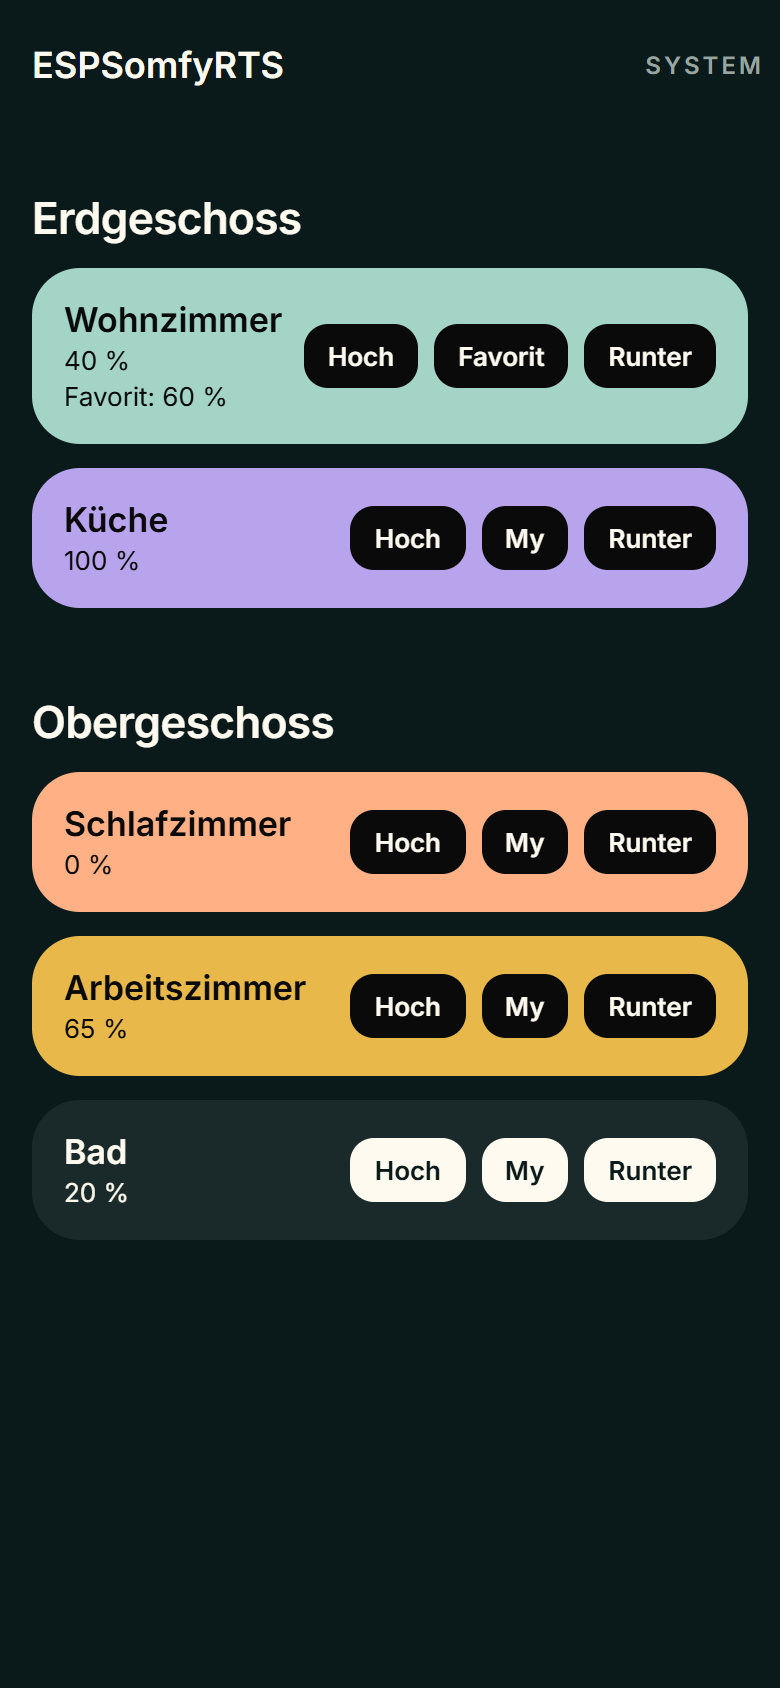
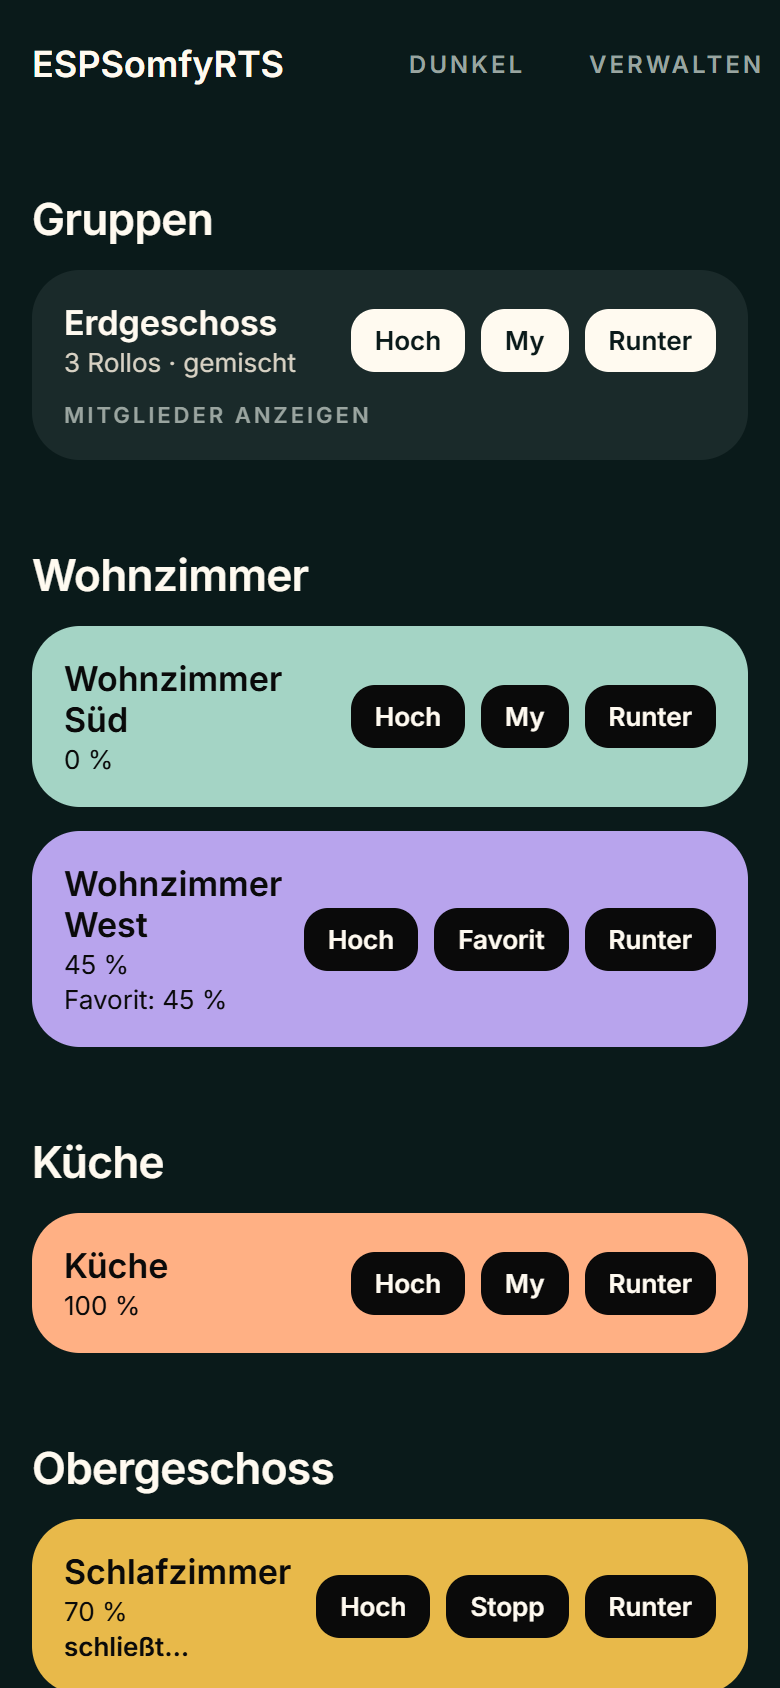
Release v3.0.0 vorbereiten
Version auf 3.0.0, Android versionCode 3, iOS buildNumber 3.

README auf den Stand von v3: Funktionsliste um Tilt, Favoritenposition,
Gruppensteuerung, die gesamte Verwaltung, die Sortierung und die Diagnose
ergaenzt; die Portuebersicht sagt jetzt, dass Port 80 sehr wohl genutzt wird -
die Verwaltungsrouten gibt es auf 8081 nicht. Screenshots neu erzeugt (jetzt mit
Gruppen im Dashboard) und um Verwalten, Reihenfolge und Diagnose erweitert.

docs/API-CLIENT-NOTES.en.md holt die deutschen Notizen ein: Routenverteilung auf
zwei Server, Fehlerantworten mit 2xx-Status, setMyPosition gegen setPositions,
der ereignisgetriebene Takt der Telemetrie, backup/restore und der nicht
erzwungene Authentifizierungsschutz.

webUiUrl() liest den Host aus dem Store statt aus getApi(). Die Funktion laeuft
beim Rendern des Diagnose-Screens, und getApi() wirft, solange keine Verbindung
stand.

Refs #55

diff --git a/src/store/diagnostics.ts b/src/store/diagnostics.ts
@@ -2,8 +2,10 @@ import { File, Paths } from 'expo-file-system';
 import * as Linking from 'expo-linking';
 import * as Sharing from 'expo-sharing';
 
-import { getApi } from '@/api/index';
+import { CONFIG_PORT, getApi } from '@/api/index';
 import { backupFilename } from '@/models/index';
+
+import { useAppStore } from './appStore';
 
 // Aktionen des Diagnose-Screens. Sie fassen den Store nicht an: Ein Backup ändert
 // nichts am Gerätezustand, und was ein Neustart bewirkt, meldet der Socket von
@@ -43,11 +45,19 @@ export async function rebootDevice(): Promise<void> {
   await getApi().endpoints.reboot();
 }
 
-/** Adresse des Web-UI (Port 80) — dieselbe Basis, über die die Verwaltung läuft. */
+/**
+ * Adresse des Web-UI (Port 80) — dieselbe Basis, über die die Verwaltung läuft.
+ * Bewusst aus dem Store statt aus `getApi()`: Die Funktion läuft beim Rendern, und
+ * `getApi()` wirft, solange noch keine Verbindung aufgebaut wurde.
+ */
 export function webUiUrl(): string {
-  return `${getApi().configClient.getBaseUrl()}/`;
+  const host = useAppStore.getState().host;
+  if (!host) return '';
+  // Port 80 gehört nicht in die Adresse — er ist der Standard für http.
+  return CONFIG_PORT === 80 ? `http://${host}/` : `http://${host}:${CONFIG_PORT}/`;
 }
 
 export async function openWebUi(): Promise<void> {
-  await Linking.openURL(webUiUrl());
+  const url = webUiUrl();
+  if (url) await Linking.openURL(url);
 }

diff --git a/src/store/__tests__/telemetry.test.ts b/src/store/__tests__/telemetry.test.ts
@@ -1,5 +1,6 @@
 import { DiscoveryResponse, SecurityType } from '@/models/index';
 import { useAppStore, WIFI_HISTORY_SIZE } from '@/store/appStore';
+import { webUiUrl } from '@/store/diagnostics';
 import { dispatchSocketFrame } from '@/store/socketBridge';
 
 function makeDiscovery(overrides: Partial<DiscoveryResponse> = {}): DiscoveryResponse {
@@ -105,5 +106,18 @@ describe('ethernet-Event', () => {
       speed: 100,
       fullduplex: true,
     });
+  });
+});
+
+describe('webUiUrl', () => {
+  test('nennt Port 80 nicht mit — er ist der Standard für http', () => {
+    useAppStore.setState({ host: '192.168.178.99' });
+    expect(webUiUrl()).toBe('http://192.168.178.99/');
+  });
+
+  test('bleibt leer, solange keine Verbindung stand', () => {
+    // Die Funktion läuft beim Rendern des Diagnose-Screens; sie darf dort nicht werfen.
+    useAppStore.setState({ host: null });
+    expect(webUiUrl()).toBe('');
   });
 });

diff --git a/docs/API-CLIENT-NOTES.en.md b/docs/API-CLIENT-NOTES.en.md
@@ -26,6 +26,10 @@ Endpoints available on 8081: `/discovery`, `/rooms`, `/shades`, `/groups`, `/log
 complete `rooms`, `shades` and `groups` arrays in a single request — useful given the
 ESP32's limited heap.
 
+**Every configuration route lives on port 80 only** — see section 10. A client that talks
+to 8081 alone can read and drive shades, but cannot create, rename, delete or reorder
+anything.
+
 ---
 
 ## 1. WebSocket frames are not valid JSON
@@ -171,6 +175,130 @@ Application-level errors are returned as:
 ```
 
 with status code **500**, not 4xx. Clients should parse `desc` for a usable message.
+
+---
+
+## 10. Configuration routes exist on port 80 only
+
+The firmware runs two independent web servers (`Web.cpp:41-42`) with **different route
+tables**. Port 8081 carries reading, commands, `/setPositions`, `/setSensor`, `/backup`
+and `/reboot` (`Web.cpp:1066-1084`). Everything else is registered on port 80 only:
+
+`/saveShade`, `/saveRoom`, `/saveGroup`, `/addShade`, `/addRoom`, `/addGroup`,
+`/deleteShade`, `/deleteRoom`, `/deleteGroup`, `/linkToGroup`, `/unlinkFromGroup`,
+`/shadeSortOrder`, `/roomSortOrder`, `/groupSortOrder`, `/setMyPosition`, `/restore`
+
+`/shade`, `/room` and `/group` exist on 8081 but are bound to `HTTP_GET` only — a `PUT`
+there reaches nothing. `/login` exists on both ports and the token is port-independent
+(it is an HMAC over credentials and client IP), so one token serves both clients.
+
+Further details worth knowing:
+
+- The three `*SortOrder` routes expect a **bare JSON array**, not an object, and assign
+  `sortOrder` by array position across the **entire** list submitted. Sending a subset
+  (say, the shades of one room) renumbers everything else.
+- Their handlers set `sortOrder` in RAM without calling `save()` — persistence across a
+  device restart should be verified rather than assumed.
+- `deleteShade` answers **400** if the shade belongs to a group; that is the one route
+  that does not use 500 (see section 9).
+- `deleteRoom` clears `roomId` on affected shades **and groups** (`Somfy.cpp:4052`), so
+  groups carry a `roomId` too.
+- `linkToGroup` sends **no** Prog frame — `SomfyGroup::linkShade` only records the
+  membership. Pairing the motor to the group address is a separate, manual step.
+- `/groupOptions` returns the shades **not yet** linked to the group, not the shades that
+  could be linked.
+- Names are `char[21]`, i.e. **20 usable characters**, for shades, rooms and groups alike.
+
+---
+
+## 11. Some errors arrive with a 2xx status
+
+Section 9 covers the usual case. Two routes break it: `/reboot` and the three
+`*SortOrder` routes answer a wrong HTTP method with **HTTP 201** and
+`{"status":"ERROR","desc":"Invalid HTTP Method: "}` (`Web.cpp:1055`). A client that keys
+success off the status code alone will treat a rejected request as a success.
+
+→ Inspect `status` in the body of **every** response, not just on non-2xx.
+
+`/reboot` accepts `PUT` or `POST` only. The restart is deferred by 500 ms, so the response
+is still delivered.
+
+---
+
+## 12. `/setMyPosition` programs the motor; `/setPositions` does not
+
+`/setPositions` (8081) writes position, tilt and favourite into the ESP's own database.
+The motor never learns about it — use it to correct a drifted estimate, not to change
+anything physical.
+
+`/setMyPosition` (port 80) sends the real Prog frame. One call has three different
+effects depending on state:
+
+| State | Effect |
+|---|---|
+| shade is not at `pos` | it **moves** there; nothing is stored yet |
+| shade is at `pos`, and `pos == myPos` | the favourite is **cleared** |
+| shade is at `pos`, and `pos != myPos` | the favourite is **set** |
+
+There is no separate clear command: clearing means sending the current favourite again.
+
+Two traps: the call is silently ignored while the shade is moving (`if(!this->isIdle())
+return;`) yet still answers 200, and if `tilt` is omitted the firmware assigns
+`tilt = myPos` — the value of the *travel* axis (`Web.cpp:1550`), which looks like a
+typo for `myTiltPos`. Always send both values for shades with slats.
+
+Related: `/tiltCommand` evaluates **either** `command` **or** `target`, never both. For
+`tiltType: tiltonly` the firmware internally redirects Up/Down/My onto the tilt axis.
+
+---
+
+## 13. Telemetry events are change-driven, not periodic
+
+`Network::loop()` evaluates every 1500 ms (`Network.cpp:139`) but emits only on change:
+
+- `wifiStrength` — only when RSSI moved by **more than 1 dBm** or the channel changed
+  (`Network.cpp:172`). With a stable link, minutes can pass without an event. When WiFi is
+  down the firmware sends the placeholder `{"ssid":"","strength":-100,"channel":-1}`
+  (`Network.cpp:200`); `-100` therefore means "no link", not "very weak".
+- `memStatus` — only when free or largest-allocatable heap moved by more than 1500 bytes,
+  and then at most every 7 s; independently of that, at least every 15 s
+  (`Network.cpp:673-695`).
+- `ethernet` — on devices with a LAN port, and additionally as a `connected:false` notice
+  when WiFi drops.
+
+A chart built on these values plots **events, not evenly spaced samples**; timestamp them
+on arrival. On connect, the firmware pushes a full snapshot once
+(`SocketEmitter::initClients`, `Sockets.cpp:106-121`).
+
+`memStatus` is worth surfacing: `max` is the largest allocatable block. When it sits far
+below `free`, the heap is fragmented — the state in which a device crashes despite
+"enough" free memory.
+
+---
+
+## 14. `/backup` streams a file, `/restore` replaces everything
+
+`handleBackup` writes `controller.backup` and streams it as `text/plain`
+(`Web.cpp:832-866`). On port 80 the web UI passes `attach=true` to get a
+`Content-Disposition` header with a timestamp; on **8081 `attach` defaults to `false`**
+(`Web.h:32`), so no such header appears. Treat the response as opaque bytes — parsing and
+re-serialising it produces a different file.
+
+`/restore` (port 80, multipart) replaces the entire configuration and reboots the device.
+It does **not** roll rolling codes backwards: `ShadeConfigFile::restore` applies
+`lastRollingCode = max(nvs, backup)` and writes the higher value back to NVS
+(`ConfigFile.cpp:809-816`).
+
+---
+
+## 15. Authentication is not enforced in v2.4.6
+
+`Web::isAuthenticated()` is declared (`Web.h:43`) and implemented (`Web.cpp:79`) but
+**called from no route**. Regardless of `authType`, every route on both servers answers
+without an `apikey` header.
+
+Clients should still send the token — the behaviour may change — but should not treat the
+device's own security setting as network protection.
 
 ---
 

diff --git a/README.md b/README.md
@@ -16,17 +16,32 @@ Die App folgt dem Systemthema; Hell und Dunkel teilen sich dieselben Markenfarbe
 |---|---|---|
 | <img src="docs/screenshots/detail-light.png" width="200" alt="Detailansicht mit Positions-Slider, helles Thema"> | <img src="docs/screenshots/detail-dark.png" width="200" alt="Detailansicht mit Positions-Slider, dunkles Thema"> | <img src="docs/screenshots/connect-light.png" width="200" alt="Verbindungs-Screen mit Eingabe der Controller-IP"> |
 
+| Verwalten | Reihenfolge | Diagnose |
+|---|---|---|
+| <img src="docs/screenshots/settings-light.png" width="200" alt="Verwaltung von Räumen und Gruppen"> | <img src="docs/screenshots/sort-light.png" width="200" alt="Reihenfolge der Rollos ändern"> | <img src="docs/screenshots/diagnostics-light.png" width="200" alt="Diagnose mit Gerätestatus, Arbeitsspeicher und WLAN-Signal"> |
+
 ## Funktionen
 
+**Steuern**
+
 - Verbindung zum Controller per IP-Adresse, Login für alle drei Sicherheitsmodi der Firmware (keine Sicherung, PIN, Benutzer/Passwort)
-- Dashboard mit allen Rollos, nach Räumen gruppiert
+- Dashboard mit allen Rollos, nach Räumen gruppiert; Gruppen stehen oben und erreichen alle ihre Motoren mit einem einzigen Funkbefehl
 - Hoch / My / Runter — „My" wechselt kontextabhängig zwischen Stopp (bei Fahrt) und Favoritenposition
 - Positions-Slider für prozentgenaues Anfahren
+- Lamellen als eigene Achse für Rollos mit Tilt, inklusive der Rollos, die *nur* Lamellen haben
+- Favoritenposition im Motor setzen und löschen (`/setMyPosition`)
 - Live-Statusaktualisierung per WebSocket — auch wenn parallel die physische Fernbedienung benutzt wird
 - Automatischer Reconnect mit Backoff, Polling-Fallback, Socket wird im App-Hintergrund geschlossen (Firmware erlaubt max. 5 Socket-Clients)
 - Heller und dunkler Modus, folgt der Systemeinstellung oder wird fest gewählt
 
-**Bewusst nicht in der App:** Pairing, Fernbedienungs-Verwaltung, Repeater, Radio-/Frequenzeinstellungen, Firmware-Updates, Netzwerkkonfiguration. Ein falscher Rolling Code oder eine falsche Frequenz trennt die Motoren — solche Eingriffe gehören ins Web-UI der Firmware.
+**Verwalten** (seit v3)
+
+- Rollos umbenennen, einem Raum zuordnen, löschen
+- Räume und Gruppen anlegen, umbenennen, löschen; Gruppenmitglieder zuordnen
+- Reihenfolge von Rollos, Räumen und Gruppen ändern — sie liegt im Gerät und gilt damit auch für das Web-UI
+- Diagnose: Gerätestatus, Heap mit Warnschwellen und Fragmentierungsgrad, Verlauf der WLAN-Signalstärke, Sicherung herunterladen, Neustart
+
+**Bewusst nicht in der App:** Pairing, Fernbedienungs-Verwaltung, Repeater, Radio-/Frequenzeinstellungen, Firmware-Updates, Netzwerkkonfiguration, Zurückspielen einer Sicherung. Ein falscher Rolling Code oder eine falsche Frequenz trennt die Motoren, ein unterwegs abgebrochenes OTA-Update macht das Gerät unbrauchbar — solche Eingriffe gehören ins Web-UI der Firmware, in Reichweite des Geräts. Ein anstehendes Firmware-Update *zeigt* die App an und verlinkt dorthin.
 
 ## Voraussetzungen
 
@@ -57,9 +72,11 @@ Der ESP32 bietet drei Schnittstellen:
 
 | Port | Zweck |
 |---|---|
-| 80 | Voller Web-/Config-Server (nicht von der App genutzt) |
-| 8081 | Reduzierter API-Server — primäre HTTP-Quelle der App |
+| 80 | Voller Web-/Config-Server — die App nutzt ihn für **sämtliche Verwaltung** |
+| 8081 | Reduzierter API-Server — Lesen, Fahrbefehle, Sicherung, Neustart |
 | 8080 | WebSocket für Live-Status (proprietäres Frameformat `42[event,{...}]`) |
+
+Die Verwaltungsrouten (`/saveShade`, `/addRoom`, `/shadeSortOrder`, `/setMyPosition`, …) sind auf 8081 **nicht** registriert. Die App hält deshalb zwei HTTP-Clients mit gemeinsamem Token.
 
 ```
 app/                 Expo-Router-Screens
@@ -81,6 +98,7 @@ Zentrale Eigenheiten der Firmware (Details in [docs/api-notes.md](docs/api-notes
 - Der API-Token ist an die **Client-IP gebunden** → Auto-Relogin bei 401/403.
 - Max. **5 gleichzeitige Socket-Clients** → Socket wird im App-Hintergrund geschlossen.
 - Positionswerte sind von der Firmware **bereits transformiert** (`flipPosition`) — die App spiegelt nie erneut.
+- Mehrere Routen melden Fehler mit einem **2xx-Status** (`/reboot` und die `*SortOrder`-Routen antworten auf die falsche Methode mit HTTP 201 und `{"status":"ERROR"}`) — der Client prüft deshalb auch bei Erfolg den Rumpf.
 
 ## Entwicklung
 
@@ -90,7 +108,8 @@ Zentrale Eigenheiten der Firmware (Details in [docs/api-notes.md](docs/api-notes
 npm install --legacy-peer-deps
 npm start            # Expo Dev Server
 npm run mock         # Mock-Server (HTTP + WebSocket) ohne Hardware
-npm test             # Jest (34 Tests, u. a. Parser gegen echten Socket-Mitschnitt)
+                     # Verwaltung liegt auf Port 80; unter Windows z. B. MOCK_CONFIG_PORT=8090
+npm test             # Jest (175 Tests, u. a. Parser gegen echten Socket-Mitschnitt)
 npm run lint         # ESLint
 npm run typecheck    # tsc --noEmit
 ```
